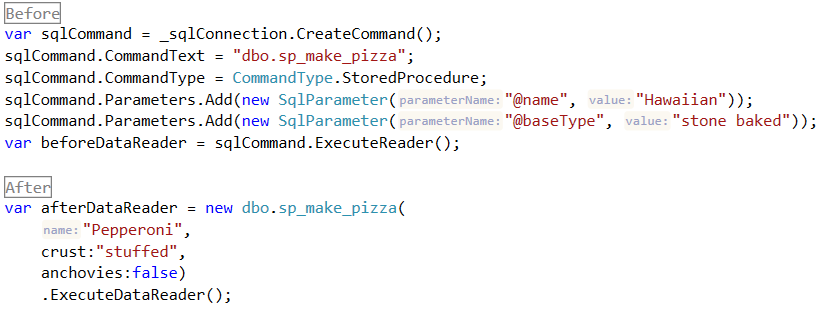
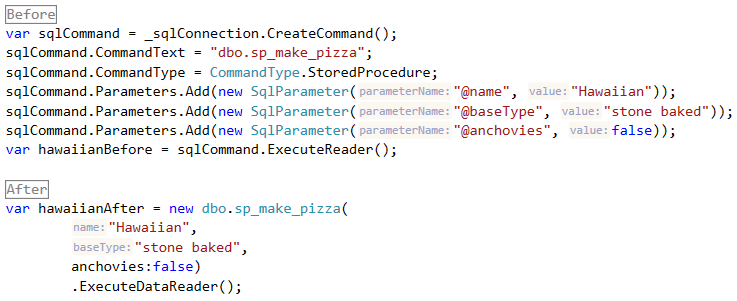
Update screenshot

Changed region(s): [[0.0, 0.0, 0.9986, 0.5382], [0.0, 0.5382, 0.4993, 0.9867]]

diff --git a/SqlProcScaffoldTest/UnitTest1.cs b/SqlProcScaffoldTest/UnitTest1.cs
@@ -103,36 +103,42 @@ namespace SprocWrapperCoreTest
         [TestMethod]
         public void ScreenshotSandpit()
         {
-            
-            //#region Before
-            //SqlProcScaffoldTest.Procs.Proc.DefaultConnection = _sqlConnection;
-            //var intNoDefault = 0;
-            //string varcharNoDefault = string.Empty;
-            //int? intNullDefault;
-            //#endregion
-            //var sqlCommand = _sqlConnection.CreateCommand();
-            //sqlCommand.CommandText = "dbo.sp_make_pizza";
-            //sqlCommand.CommandType = CommandType.StoredProcedure;
-            //sqlCommand.Parameters.Add(new SqlParameter("@name", "Hawaiian"));
-            //sqlCommand.Parameters.Add(new SqlParameter("@baseType", "stone baked"));
-            //var hawaiian = sqlCommand.ExecuteReader();
 
-            //#region After
-            //hawaiian.Dispose();
-            //#endregion
+            #region Before
+            SqlProcScaffoldTest.Procs.Proc.DefaultConnection = _sqlConnection;
+            var intNoDefault = 0;
+            string varcharNoDefault = string.Empty;
+            int? intNullDefault;
+            #endregion`
+            var sqlCommand = _sqlConnection.CreateCommand();
+            sqlCommand.CommandText = "dbo.sp_make_pizza";
+            sqlCommand.CommandType = CommandType.StoredProcedure;
+            sqlCommand.Parameters.Add(new SqlParameter("@name", "Hawaiian"));
+            sqlCommand.Parameters.Add(new SqlParameter("@baseType", "stone baked"));
+            sqlCommand.Parameters.Add(new SqlParameter("@anchovies", false));
+            var hawaiianBefore = sqlCommand.ExecuteReader();
+
+            #region After
+                hawaiianBefore.Dispose();
+            #endregion
+            var hawaiianAfter = new dbo.sp_make_pizza(
+                    "Hawaiian",
+                    "stone baked",
+                    anchovies: false)
+                    .ExecuteDataReader();
+
+    
             
-            ////new dbo.sp_make_pizza();
-            
-            //var pepperoniPlus = new dbo.sp_make_pizza(
-            //        "Pepperoni",
-            //        "deep pan",
-            //        "cheese filled",
-            //        anchovies: null)
-            //    .ExecuteDataReader();
-            
-            //var pepperoni = new dbo.sp_make_pizza(
-            //    "Pepperoni")
-            //    .ExecuteDataReader();
+            #region END
+            hawaiianAfter.Dispose();
+            #endregion
+
+        //new dbo.sp_make_pizza();
+
+
+        //var pepperoni = new dbo.sp_make_pizza(
+        //        "Pepperoni")
+        //        .ExecuteDataReader();
 
 
             #region End
